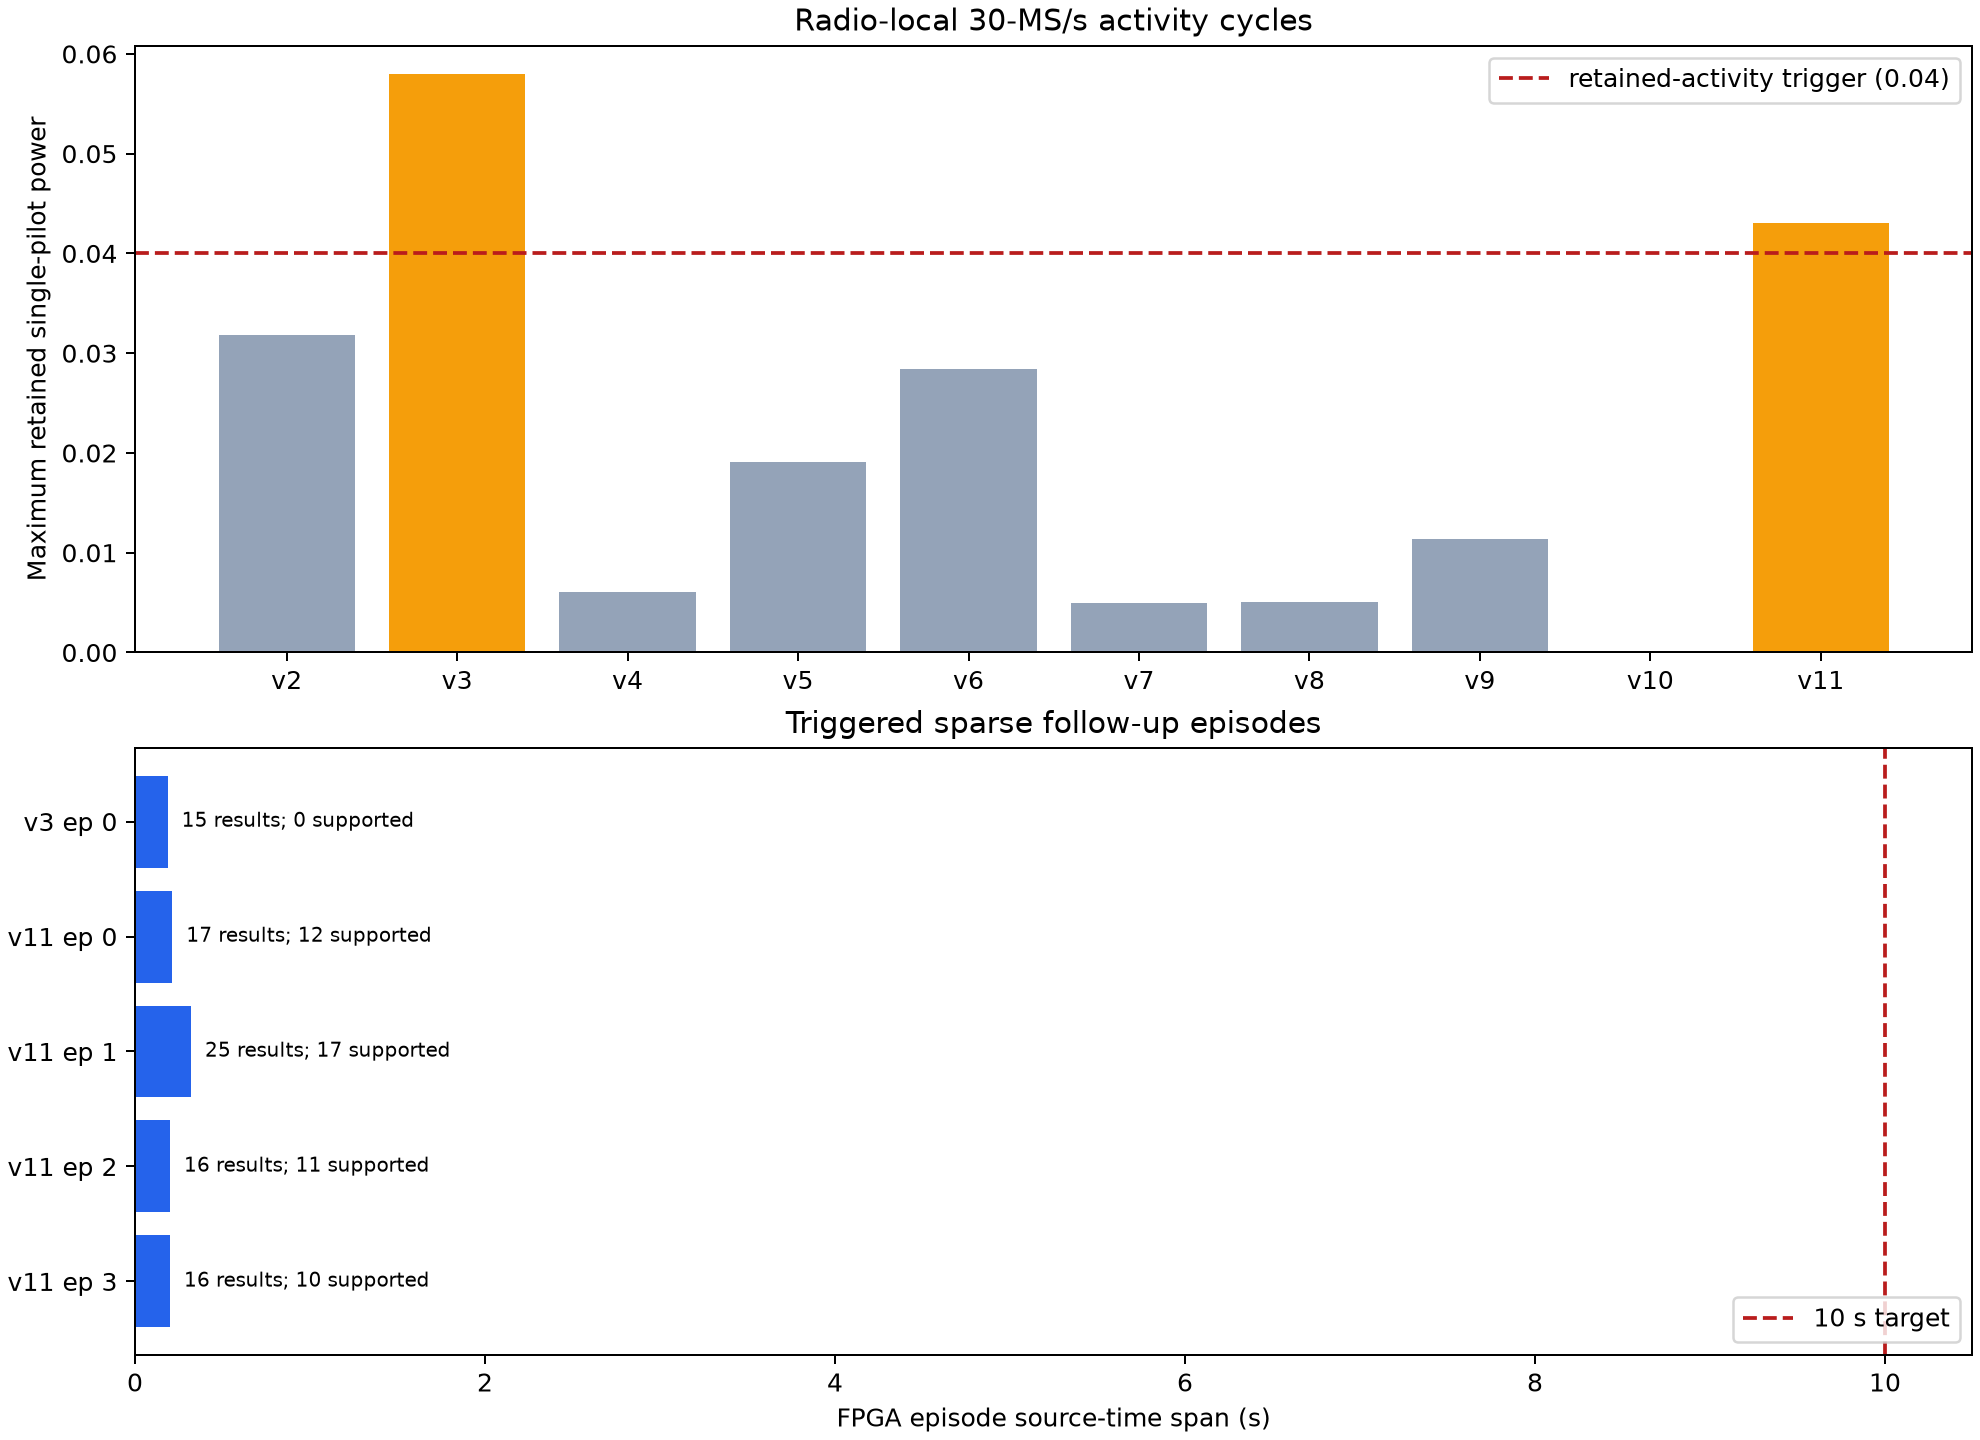
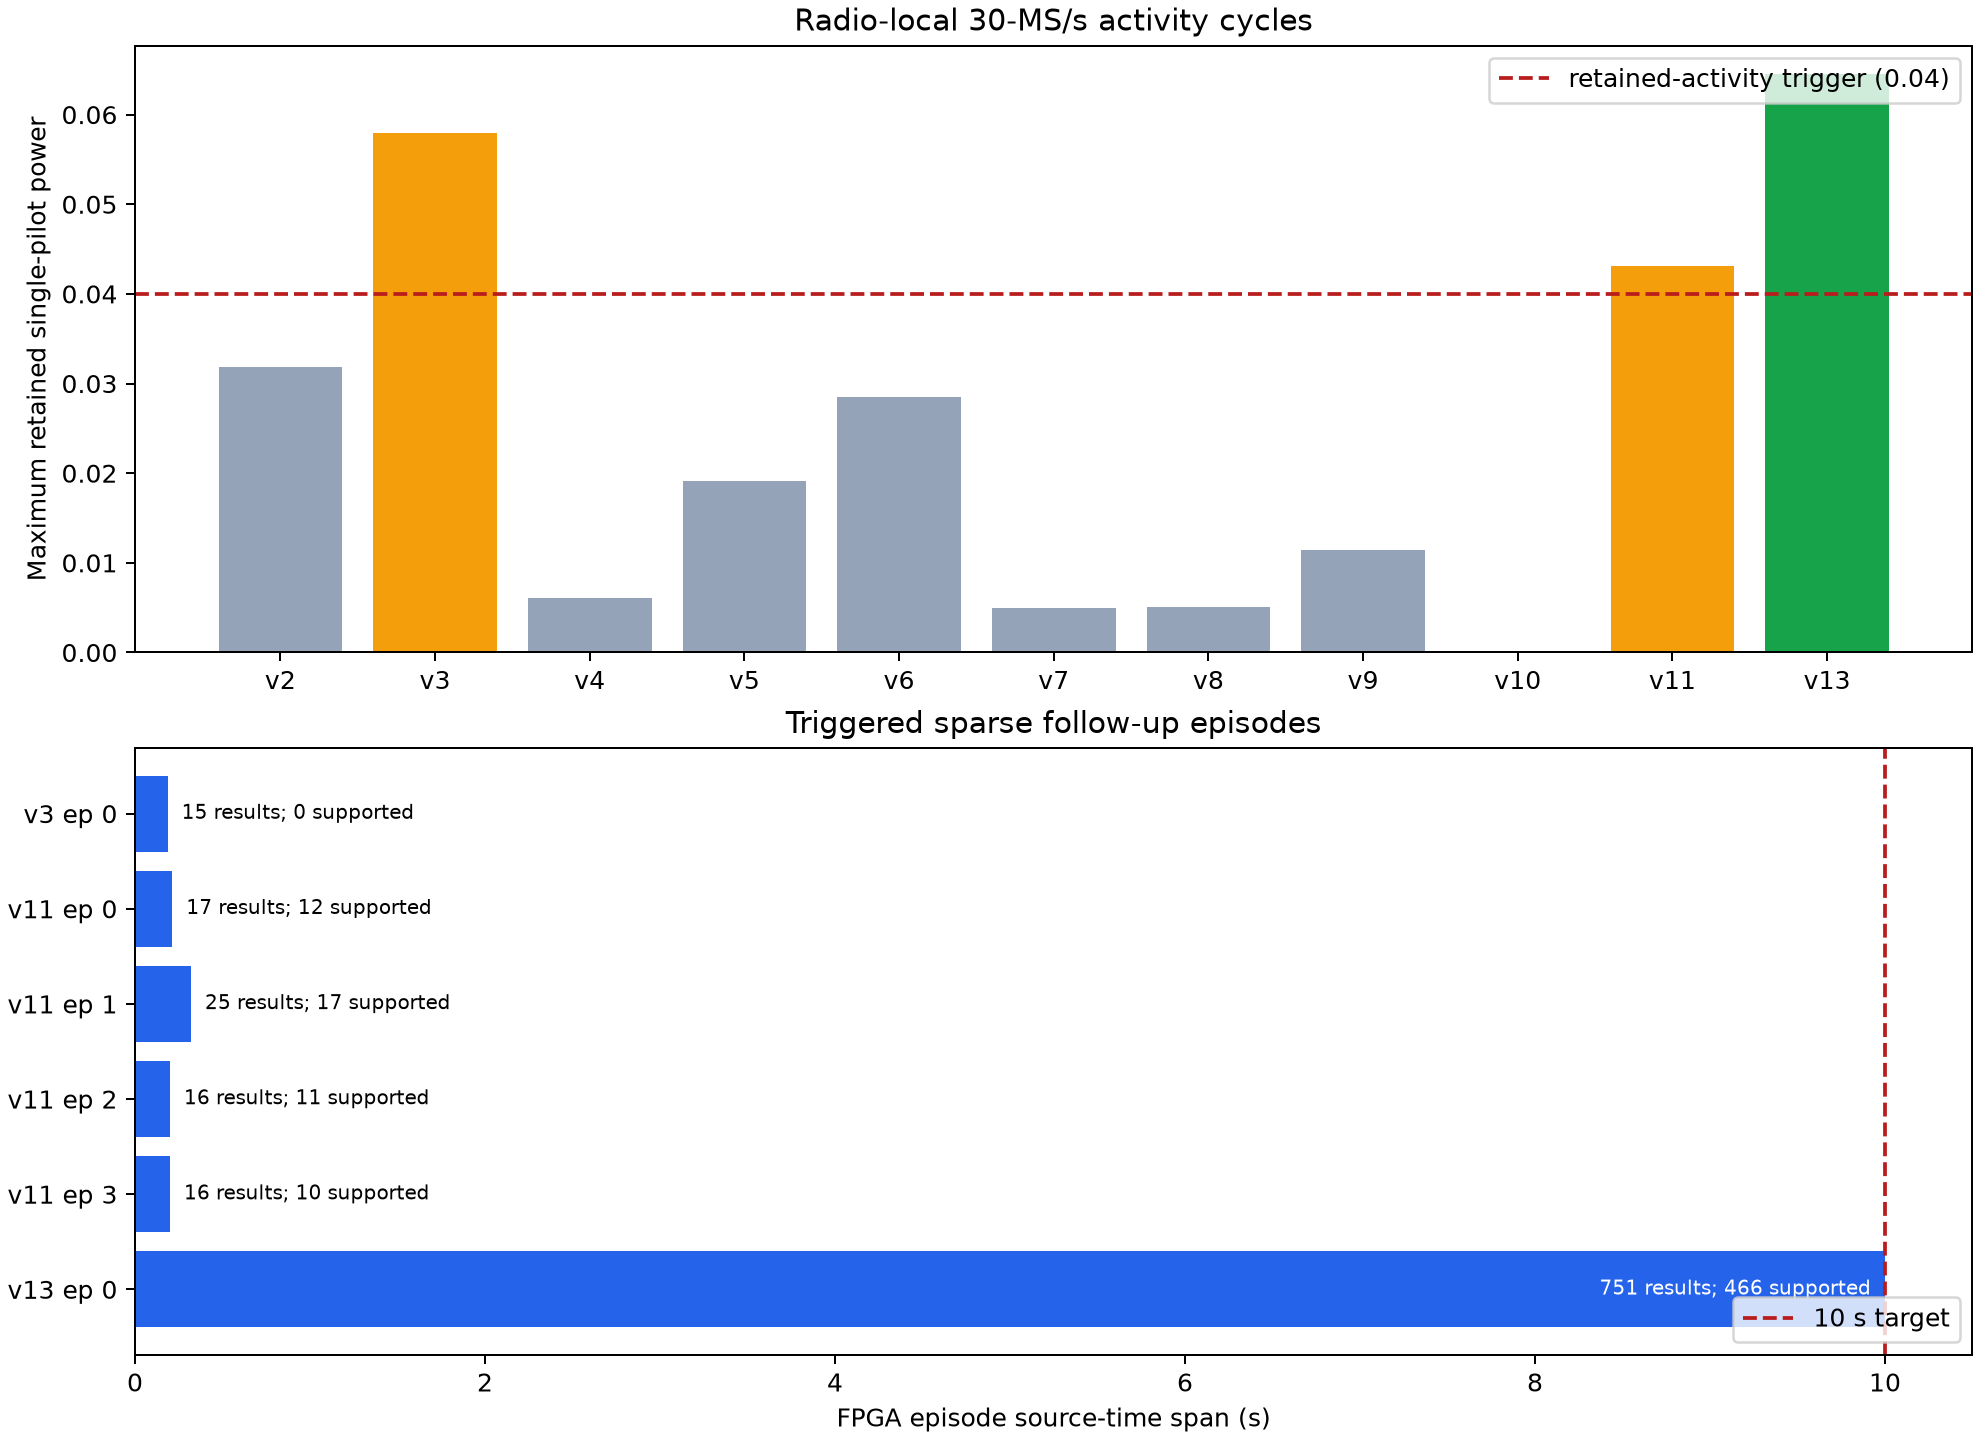
Report first complete 10-second 30 MS/s track

diff --git a/reports/2026_09_15_radio20_30ms_authority_tracking/analyze_activity_followups.py b/reports/2026_09_15_radio20_30ms_authority_tracking/analyze_activity_followups.py
@@ -42,8 +42,11 @@ def main() -> None:
     from tools.starlink_glrt_tracking_journal import review
 
     result = {"schema": "radio20-30ms-activity-followup-review/v1", "cycles": []}
-    for number in range(1, 12):
-        root = args.evidence_root / f"activity-followup-20260915-v{number}"
+    for number in range(1, 14):
+        name = f"activity-followup-20260915-v{number}"
+        root = args.evidence_root / name
+        if not root.exists():
+            root = args.evidence_root.parent / name
         if not root.exists():
             continue
         operator = json.loads((root / "operator.json").read_text())
@@ -101,7 +104,7 @@ def main() -> None:
             "children": children,
             "retained_evidence": retained.exists(),
             "ssd_manifest_pass": manifest_passes(root),
-            "raid_manifest_pass": manifest_passes(args.raid_root / f"activity-followup-20260915-v{number}"),
+            "raid_manifest_pass": manifest_passes(args.raid_root / name),
             "radio_restored": operator.get("radio_restored", False),
         })
 
@@ -146,8 +149,11 @@ def main() -> None:
     axes[1].set_title("Triggered sparse follow-up episodes")
     axes[1].legend(loc="lower right")
     for index, ((_, episode), span, count) in enumerate(zip(episode_rows, spans, supported, strict=True)):
-        axes[1].text(span + 0.08, index, f"{episode['measurements']} results; {count} supported",
-                     va="center", fontsize=8)
+        long = span > 9
+        axes[1].text(span - 0.08 if long else span + 0.08, index,
+                     f"{episode['measurements']} results; {count} supported",
+                     ha="right" if long else "left", va="center", fontsize=8,
+                     color="white" if long else "black")
     fig.savefig(args.output / "activity_followup_outcomes.png", dpi=180)
 
 

diff --git a/reports/2026_09_15_radio20_30ms_authority_tracking.md b/reports/2026_09_15_radio20_30ms_authority_tracking.md
@@ -3,7 +3,7 @@
 **Date:** 15 September 2026  
 **Radio:** `1040005e0b100007100010000bf33a5d4d` (`192.168.1.20`)  
 **Image:** `glrt-iq-tracking-r30000000-v1`  
-**Result:** sustainable 30-MS/s scheduling and bounded operation pass; ten-second physical tracking does not yet pass
+**Result:** the first complete 10-second, 751-measurement physical 30-MS/s FPGA tracking run passes
 
 ## Result
 
@@ -11,17 +11,24 @@ Retained 2.5-MS/s ARM observations can now extend the causal scheduling
 horizon of existing 30-MS/s FPGA pilot jobs. The implementation preserves a
 separate native-result history, retains every authority update before use, and
 does not rewrite work already submitted to the FPGA. Synthetic positive and
-negative controls pass, as do 527 live/controller tests.
+negative controls pass; the final change passes 368 focused controller,
+journal, visit, operator and live-authority tests.
 
-Four physical runs exercised the new path. Two acquired the signal and produced
+The final activity-triggered v13 run completed all **751** stride-ten FPGA
+measurements from frame 1,290 through frame 8,790. That is exactly **10.000
+seconds** of scheduled source time; the retained FPGA head starts span
+10.000038 seconds. The unchanged native diagnostic accepted 466 results and
+rejected 285, while 699 retained coarse-authority refreshes kept future work
+scheduled. The controller completed and drained normally with zero capture,
+CDC and pacer drops. The independent epoch/ownership and journal reviewers
+pass all 751 heads, 64 paired-IQ records, and the final clear.
+
+Before the sparse work, four physical runs exercised the dense path. Two acquired the signal and produced
 five FPGA episodes. The strongest episode contains **1,158 consecutive FPGA
 results, or 1.544 seconds at the 750-Hz pilot cadence**. Its concurrent ARM
 observer supports 124 of 130 measurements, while 416 of 1,158 wider native
-diagnostics pass their unchanged gate. This is a large improvement over the
-previous 74-result/98.7-ms physical maximum, but it remains well short of the
-7,500-result/10-second target. The two runs made after the final wall-deadline
-fix contain no qualifying handoff, so they cannot validate that fix against a
-physical signal.
+diagnostics pass their unchanged gate. Those runs established the dense-path
+limit and motivated the sustainable stride-ten cadence used by v13.
 
 The dense 750-result/s experiments also established that ARM/sysfs retention
 drains about 96.5 results/s. A dense controller therefore falls behind the
@@ -41,7 +48,7 @@ the predictor's 32-frame bound. No descriptor used that stale record, but those
 journals correctly fail evidence review. Commit `627654e9c` now refuses such a
 refresh until the next observer update. The corrected CH4 validation produced
 two independently reviewable clean-loss episodes spanning **1.640 s** and
-**0.987 s**. No physical episode reached 751 measurements.
+**0.987 s**. None of those earlier sparse dwells reached 751 measurements.
 
 The later radio-local activity campaign ran ten admitted cycles after one
 lease refusal. Three cycles triggered refinement. The final corrected cycle
@@ -50,8 +57,8 @@ proved the complete scan-to-follow-up-to-reacquisition path at 1.9403125 GHz:
 reacquisitions. The episodes contained 17, 25, 16 and 16 FPGA results; 50 of 74
 native diagnostics passed the unchanged gate, and the longest episode spanned
 **0.320 s**. Independent epoch/ownership review passes, all FPGA fault and drop
-counters are zero, and the exact radio state was restored. This is a successful
-bounded reacquisition result, but it is not a ten-second continuous track.
+counters are zero, and the exact radio state was restored. That result exposed
+the cadence-alias authority issue fixed before v13.
 
 ![Radio-local activity triggers and follow-up episode lengths](2026_09_15_radio20_30ms_authority_tracking/activity_followup_outcomes.png)
 
@@ -272,6 +279,18 @@ concurrent ARM observer retained 81 measurements. The parent returned explicit
 clean loss after the bounded third restart and did not promote the run to a
 completed track.
 
+V12 failed before radio attestation or RF collection because its selected host
+Python environment lacked the SSH transport dependency. V13 used the reviewed
+environment and the cadence-authority fix from firmware commit `9c8ca3952`.
+The two scouts at 1.9403125 and 1.4403125 GHz retained activity but no native
+handoff; the radio-local parent selected 1.4403125 GHz and launched the long
+follow-up. Its 189th acquisition attempt produced one native episode that
+completed all 751 measurements without a restart. Independent review reports
+466 supported native diagnostics, 285 rejection-code-64 diagnostics, 699
+monotonic coarse-authority refreshes, and a 10.000-second frame span. The
+successful child processed 27,326 source blocks and returned status 0 with
+`worker_complete=1`.
+
 Every complete admitted cycle has matching SSD and RAID manifests. V10 is
 explicitly marked incomplete because only its parent stdout and before/after
 operator receipt survived. The reproducible cycle summary and plot are
@@ -295,8 +314,11 @@ its reproducible `SHA256SUMS`; SSD originals remain in place.
 
 The complete activity-triggered cycles are stored under matching
 `activity-followup-20260915-vN` paths on NVMe and RAID. V11 contains 26 retained
-files, and its entire RAID manifest verifies. V10 has no RAID copy for the
-documented pre-fix evidence-ordering reason.
+files, and its entire RAID manifest verifies. V13 contains 34 retained child
+files; all 38 manifest entries match independently on both SSD and RAID. Its
+before/after attestation is identical, including serial, boot ID, 30-MS/s image,
+FIT/QSPI hashes, disabled buffers and TX-safe state. V10 has no RAID copy for
+the documented pre-fix evidence-ordering reason.
 
 The acceptance gate remains:
 
@@ -307,18 +329,17 @@ The acceptance gate remains:
 4. exact radio and TX-safe restoration.
 
 This campaign establishes sustainable 30-MS/s FPGA scheduling, causal authority
-admission, zero-loss capture, clean negative behavior and restoration. It
-records zero qualifying ten-second episodes, so acceptance is **not passed**.
+admission, zero-loss capture, clean negative behavior and restoration. V13 is
+one qualifying sparse ten-second episode, so the single-run milestone is
+**passed**. The stated acceptance gate asks for two repeatable episodes, so the
+repeatability gate remains open until a second independent 751-result run.
 
-The next stable step is offline replay of the v11 retained windows and explicit
-design of a session-level tracking contract. The physical system now scans,
-selects an LO, starts FPGA measurements, detects clean loss and reacquires on
-ARM without host intervention. Real support arrives in short episodes, so a
-useful ten-second operational result should retain episode boundaries and gap
-time while continuing reacquisition across the observation window. That new
-session evidence must remain distinct from the existing 751-result continuous
-episode gate. The native diagnostic gates should remain unchanged; their
-support rate is evidence about signal quality, not a reason to relabel a track.
+The next stable step is analysis and replay of v13, followed by one independent
+repeat rather than changing the native diagnostic threshold. The physical
+system now scans, selects an LO, acquires, schedules 30-MS/s FPGA measurements,
+uses retained ARM history through native cadence gaps, and drains a ten-second
+run without host feedback. Native support is 62.1% in v13; that remains useful
+signal-quality evidence and is not relabeled as 100% continuous RF support.
 
 The figure and `summary.json` are regenerated by
 [`analyze.py`](2026_09_15_radio20_30ms_authority_tracking/analyze.py) from the
